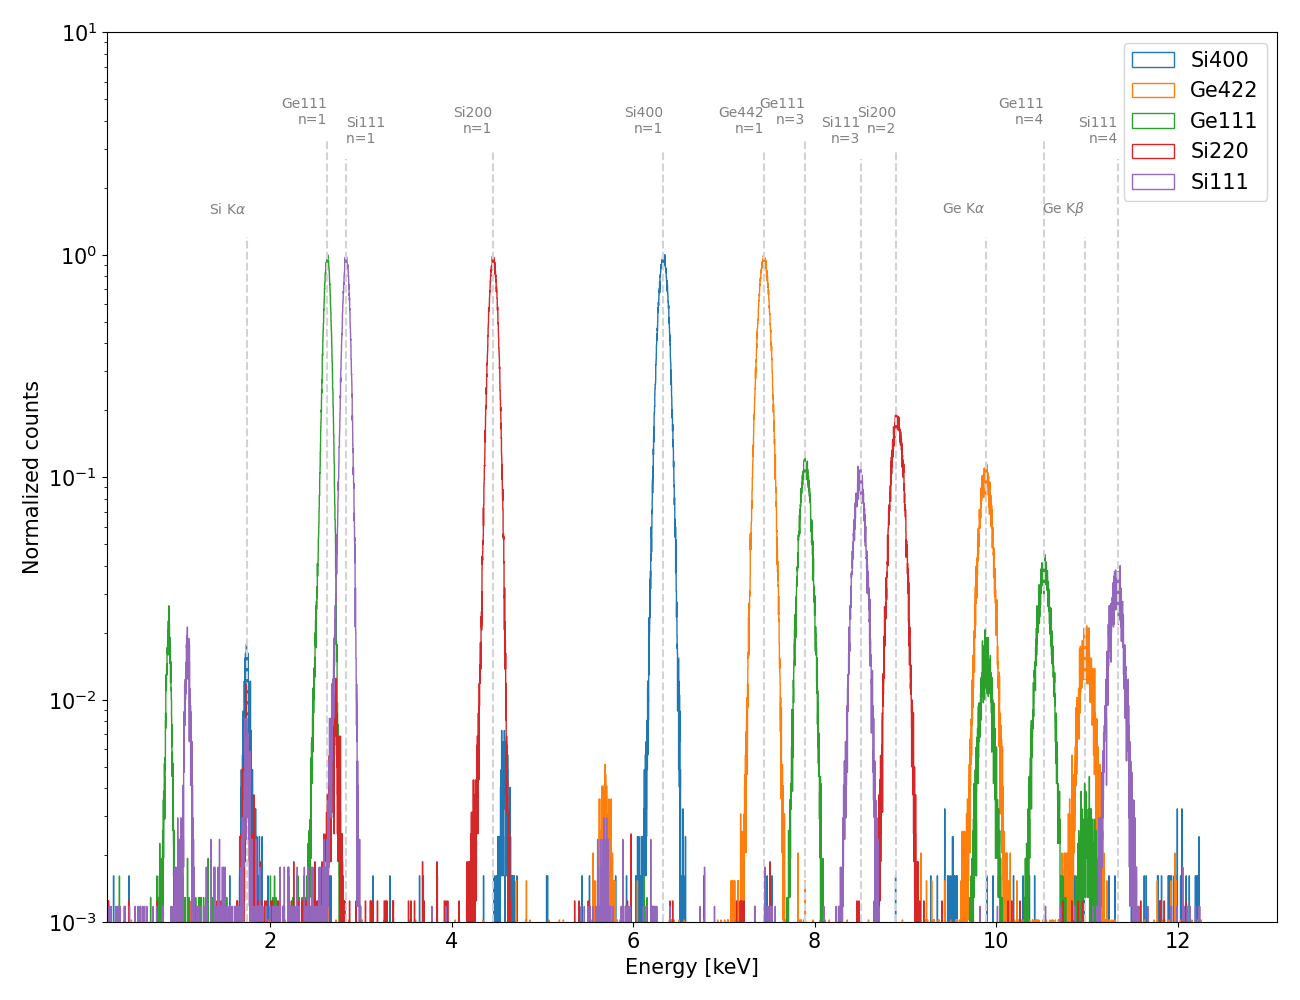
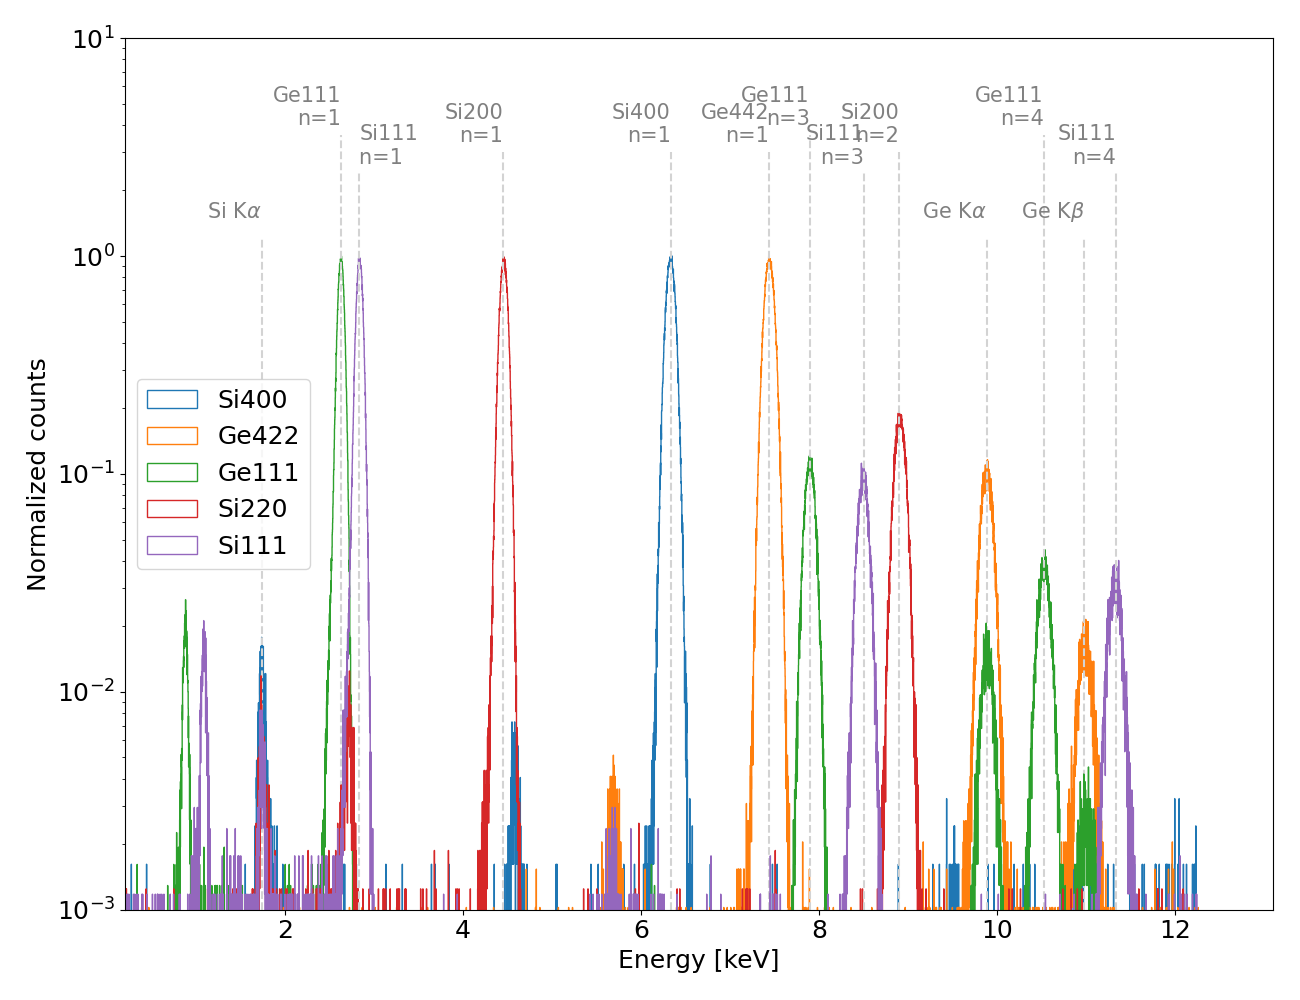
update

diff --git a/ASI_camera/analysis_simo/read_clusters_v2.py b/ASI_camera/analysis_simo/read_clusters_v2.py
@@ -20,8 +20,8 @@ calP1=0.003213272145961988
 XBINS=2822
 YBINS=4144
 NBINS=16384  # n.canali ADC (2^14)
-minfit=0.2
-maxfit=2.0
+minfit=0.3
+maxfit=2
 
 class track():
    def __init__(self, x,y,w):
@@ -72,6 +72,11 @@ def fit_landauHistohram(counts,binsE,xmin=-0.5,xmax=2.5):
  
    initial_pars=[max_x,0.4,max_val]
    lims_low=[max_x-0.1,0.2,max_val-20]
+   if max_x-0.1<0.45:
+      lims_low[0]=0.45
+   if initial_pars[0]<0.45:
+       initial_pars[0]=0.45
+      
    lims_up=[max_x+0.1,0.6,max_val+20]  
    coeff,pcov= fh.fit_Landau_histogram(counts,binsE,xmin=xmin,xmax=xmax,  initial_pars= initial_pars, parsBoundsLow=lims_low, parsBoundsUp=lims_up  )
    print ("coeff=",coeff)
@@ -126,8 +131,8 @@ def analyze_tracks(tracks_list,n_energyBins=1000, trackLen=7, min_corr=0.8, n_pi
    countsE_all, binsE = np.histogram(x, bins =n_energyBins, range = (0,100))
    countsE, binsE = np.histogram(x, bins =n_energyBins, range = (0,100))   # istogramma per ogni pixel
 
-   countsETrack_all, binsE = np.histogram(x, bins =n_energyBins, range = (0,100))
-   countsETrack, binsE = np.histogram(x, bins =n_energyBins, range = (0,100))   # istogramma E totale traccia (integrando i pixel)
+   countsETrack_all, binsEtrack = np.histogram(x, bins =100, range = (0,100))
+   countsETrack, binsEtrack= np.histogram(x, bins =100, range = (0,100))   # istogramma E totale traccia (integrando i pixel)
 
    r_all=[]
    size_all=[]
@@ -147,7 +152,7 @@ def analyze_tracks(tracks_list,n_energyBins=1000, trackLen=7, min_corr=0.8, n_pi
       #print("mytrack.get=",mytrack.w[0])
       
       if mytrack.getSize()==trackLen and abs(mytrack.corr)>min_corr:  # seleziono size e cut su correlezione
-           countsETrack, binsE = np.histogram(mytrack.getTotE(), bins =n_energyBins, range = (0,100))
+           countsETrack, binsEtrack = np.histogram(mytrack.getTotE(), bins =100, range = (0,100))
            countsETrack_all=countsETrack_all+countsETrack                                            # istogramma E totale
         
           #aggiungo l'energia all'n-esimo pixel della traccia
@@ -159,49 +164,69 @@ def analyze_tracks(tracks_list,n_energyBins=1000, trackLen=7, min_corr=0.8, n_pi
                countsE, binsE = np.histogram(mytrack.w[-(n_pix+1)], bins =n_energyBins, range = (0,100))                 
                countsE_all=countsE_all+countsE
 
-   return  countsE_all,  countsETrack_all, binsE   
+   return  countsE_all,  countsETrack_all, binsE, binsEtrack   
 
 
 
-def analize_allPix(track_list,SEL_SIZE):
+def analize_allPix(track_list,SEL_SIZE,MIN_CORR=0.85):
    
    xpix=[]
    MPV=[]
+   MPVerr=[]
    countsETrack=None
    binsE=None
    # loop su n_pix (ie n-esima posizione lungo la traccia, una volta fissata la lunghezza)
    for n_pix in range(0,SEL_SIZE):
    
-      countsE_all,  countsETrack_all, binsE =  analyze_tracks(tracks_list, n_energyBins=600,  trackLen=SEL_SIZE, min_corr=0.85, n_pix=n_pix)
+      countsE_all,  countsETrack_all, binsE, binsEtrack=  analyze_tracks(tracks_list, n_energyBins=2400,  trackLen=SEL_SIZE, min_corr=MIN_CORR, n_pix=n_pix)
       print("nPix=",n_pix)
-      #plot E histogram                                  
-      plt.figure(n_pix)
-      plt.hist(binsE[:-1], bins =binsE, weights =countsE_all  , histtype = 'step',label='Etracks_'+str(n_pix))
-      plt.title('Epixel n.  '+str(n_pix))
+      
       #coeff0,pcov0=  fit_landauHistohram(countsE_all,binsE)
       coeff,pcov,chi2,chi2red=  fh.fit_landauHHisto_cmosMip(countsE_all,binsE,xmin=minfit,xmax=maxfit)
-     
+
+      #plot E histogram                                  
+      plt.figure(n_pix,(13,10))
+      figPixels, (axPix) = plt.subplots(1, figsize=(12,8))
+      axPix.hist(binsE[:-1], bins =binsE, weights =countsE_all  , histtype = 'step',label='Etracks_'+str(n_pix))
+      axPix.set_title('Epixel n.  '+str(n_pix))
       x=np.arange(minfit,maxfit,0.05)
-      #plt.plot(x, pylandau.landau(x, *coeff0), "-b")
-      plt.plot(x, fh.myLandau(x, *coeff), "-r",label='landau')
-      #plt.xlim(-1,5)
-      plt.show()
-      xpix.append(n_pix)
+      axPix.plot(x, fh.myLandau(x, *coeff), "-r",label='landau')
+      axPix.set_xlim(-0.2,2)
+      #plt.show()
+      xpix.append(n_pix+1)
       MPV.append(coeff[0])
+      MPVerr.append(pcov[0][0]**0.5)
 
    #end loop pixels
    # plot tot track energy
-   #plt.figure(60)
-   #plt.title('track totalE')
-   #plt.ylabel("abs(cluster lienar correlation coef.)")
-   #plt.hist(binsE[:-1], bins =binsE, weights=countsETrack_all, histtype = 'step')
-   # fit total energy
-   coeff,pcov=  fit_landauHistohram(countsETrack_all,binsE,xmin=1,xmax=20)    
+   print("!!!!!!!!!! FIT total track Energy =====================  ")
+   figEtrack, (axEt) = plt.subplots(1, figsize=(12,8))
+   axEt.set_title('track totalE+ SIZE='+str(SEL_SIZE))
+   axEt.set_xlabel("track total E [keV]")
+   axEt.hist(binsEtrack[:-1], bins =binsEtrack, weights=countsETrack_all, histtype = 'step')
+
+  
+
+   initial_pars=[ 9,    1.8,  600]
+   lims_low=[5,1,500]
+   lims_up=[15,4,1000]
+  
+   
+   coeff,pcov,chi2,chi2red= fh.fit_Landau_histogram2(countsETrack_all,binsEtrack,xmin=1,xmax=20,  initial_pars= initial_pars, parsBoundsLow=lims_low, parsBoundsUp=lims_up  )
+
+   
+   print("binE=",binsEtrack)
+   print("counts=",countsETrack_all)
+   al.save_histo('trackE', countsETrack_all,binsEtrack)
    x=np.arange(1,20,0.05)
-   #plt.plot(x, pylandau.landau(x, *coeff), "-")  
+   axEt.plot(x, fh.myLandau(x, coeff[0],coeff[1],coeff[2]))
+
+   
    mpv_track=coeff[0] 
 
-   return xpix,MPV, mpv_track
+   
+   
+   return xpix,MPV,MPVerr, mpv_track
    
 
 
@@ -225,22 +250,24 @@ size_all=0
 #apply Ecut and compute r_corr
 r_all ,totE, size_all  = cut_allTracks(tracks_list,Ecut=0.)
 
-fig1, (ax1) = plt.subplots(1, figsize=(12,8))
+fig1, (axFinal) = plt.subplots(1, figsize=(12,8))
 
 #ax1.ylabel("MPV")
 #ax1.xlabel("n pix")
 
 mpv_90=0.351
+MIN_CORR=0.5
 
-for SEL_SIZE in range(10,11):
+for SEL_SIZE in [10]:
    print("SEL_SIZE=",SEL_SIZE)
-   xpix,MPV,mpv_track = analize_allPix(tracks_list,SEL_SIZE)
+   xpix,MPV,MPVerr,mpv_track = analize_allPix(tracks_list,SEL_SIZE, MIN_CORR=MIN_CORR)
    alpha=np.arcsin(mpv_90/mpv_track)
    print("ALPHA=",alpha, " (",np.degrees(alpha),"deg)" )
    depth=np.array(xpix)*4.6*np.tan(alpha)
-   ax1.plot(depth,MPV,'o',label="size="+str(SEL_SIZE))
 
-plt.legend()
+   axFinal.errorbar(depth,MPV,yerr=MPVerr,fmt='o',label="size="+str(SEL_SIZE))
+
+axFinal.legend()
 
 
    
@@ -265,30 +292,7 @@ plt.plot(totE,r_all,"p", alpha=0.5)
 plt.xlabel("cluster E [keV]")
 plt.ylabel("abs(cluster lienar correlation coef.)")
 
-# plot tot track energy
-#plt.figure(60)
-#plt.title('track totalE')
-#plt.ylabel("abs(cluster lienar correlation coef.)")
-#plt.hist(binsE[:-1], bins =binsE, weights=countsETrack_all, histtype = 'step')
-# fit total energy
-#coeff,pcov=  fit_landauHistohram(countsETrack_all,binsE,xmin=1,xmax=20)    
-#x=np.arange(1,20,0.05)
-#plt.plot(x, pylandau.landau(x, *coeff), "-")
 
-
-#pv_track=coeff[0]
-#pv_90=0.6
-#alpha=np.arcsin(mpv_90/mpv_track)
-#print("ALPHA=",alpha, " (",np.degrees(alpha),"deg)" )
-
-# plot MPV vs n_pix
-#plt.figure(70)
-#plt.ylabel("MPV")
-#plt.xlabel("n pix")
-#depth=np.array(xpix)*4.6*np.tan(alpha)
-#plt.plot(depth,MPV,'ro')
-#plt.legend()
-#plt.title('track totalE')
 
 
 

diff --git a/users/simo/plot_mxrXtals/plot_allSpectraMXR.py b/users/simo/plot_mxrXtals/plot_allSpectraMXR.py
@@ -13,7 +13,7 @@ import fit_histogram as fitSimo
 from  histogramSimo import histogramSimo
 import matplotlib as mpl
 
-mpl.rcParams['font.size']=15  #!!!!!!!!!!!!!!!!!!!!!!!!!!
+mpl.rcParams['font.size']=18  #!!!!!!!!!!!!!!!!!!!!!!!!!!
 
    
 
@@ -40,7 +40,7 @@ def plot_all(base_path,input_files,legend,norm_limits,x_lines,labels,labels_scal
                 hor_al='left'
                 print("LEFT!")
             plt.vlines(x=x_lines[i][j]/1000., ymin=0.001,ymax=labels_scale[i][j]*3,color='lightgray', linestyle='--')
-            ax.text(x_lines[i][j]/1000.,labels_scale[i][j]*4 ,labels[i][j], horizontalalignment=hor_al, verticalalignment='center', size=10, color='gray')
+            ax.text(x_lines[i][j]/1000.,labels_scale[i][j]*4 ,labels[i][j], horizontalalignment=hor_al, verticalalignment='center', size=15, color='gray')
         
         
         
@@ -66,7 +66,7 @@ if __name__ == "__main__":
     norm_limtis=[[6250,6425],[7350,7525],[2550, 2675],[4400, 4550],[2780,2880]]
     x_lines=[[6332,1740],[7443,9886,10982],[2631,2631*3,2631*4],[4450,4450*2],[2835,2835*3,2835*4]]
     labels=[["Si400\nn=1",r'Si K$\alpha$'],['Ge442\nn=1',r'Ge K$\alpha$',r'Ge K$\beta$'],['Ge111\nn=1','Ge111\nn=3','Ge111\nn=4'],['Si200\nn=1','Si200\nn=2'],['Si111\nn=1 ','Si111\nn=3','Si111\nn=4']]
-    labels_scale=[[1,0.4],[1,0.4,0.4],[1.1,1.1,1.1],[1,1],[0.9,0.9,0.9]]
+    labels_scale=[[1,0.4],[1,0.4,0.4],[1.2,1.2,1.2],[1,1],[0.8,0.8,0.8]]
    
     plot_all(BASE_PATH,input_files,legend,norm_limtis,x_lines,labels,labels_scale)
     

diff --git a/ASI_camera/analysis_simo/read_eventListsHotCut.py b/ASI_camera/analysis_simo/read_eventListsHotCut.py
@@ -45,8 +45,8 @@ parser.add_argument('-yprojName','--yprojName',type=str ,  help="y-projection fi
 parser.add_argument('-suffix','--suffix',type=str ,  help="suffix in file names", required=False,default='')
 
 
-FIND_HOTPIXELS=False
-CUT_HOT_PIXELS=False
+FIND_HOTPIXELS=True
+CUT_HOT_PIXELS=True
 PLOT_MAP=True
 
 args = parser.parse_args()
@@ -103,8 +103,8 @@ print("len y_all ",len(y_all))
 
 
 if FIND_HOTPIXELS==True:
-    hotPix=hotPixels(x_all=x_all,y_all=y_all,w_all=w_all,size_all=size_all,rebin=20)
-    hotPix.find_HotPixels(n_sigma=3,low_threshold=50, min_counts=10) # low_treshold in ADC, 
+    hotPix=hotPixels(x_all=x_all,y_all=y_all,w_all=w_all,size_all=size_all,rebin=5)
+    hotPix.find_HotPixels(n_sigma=3,low_threshold=10, min_counts=10) # low_treshold in ADC, 
     hotPix.save_cuts(DIR+'/cuts.npz')
 if CUT_HOT_PIXELS==True:
     hotPix=hotPixels(x_all=x_all,y_all=y_all,w_all=w_all,size_all=size_all)
@@ -121,7 +121,7 @@ fig2=plt.figure(figsize=(10,10))
 ax1=plt.subplot(221)
 
 #plot
-myCut=np.where(w_all>100)
+myCut=np.where(w_all>50)
 #myCut=np.where( ((w_all)>50)&(x_all>5)&(x_all<2808))
 #myCut=np.where( ((size_all)>1))
 #myCut=np.where( (w_all>40)&( (  ((x_all-1300)**2+(y_all-1750)**2)<900**2)  ))

diff --git a/gpd/analisi_standalone/analisi_GPD_v2.py b/gpd/analisi_standalone/analisi_GPD_v2.py
@@ -141,7 +141,7 @@ plt.legend()
 """
 print("fit modulation...")
 
-histo_phi_data, histo_phi_bins, phase, phase_err, mu, mu_err, ax_mod = modulation(phi=phi2,bins=bins_modulation,fit=True, title_label='modulation', color='blue')
+histo_phi_data, histo_phi_bins, phase, phase_err, mu, mu_err, ax_mod = modulation(phi=phi1,bins=bins_modulation,fit=True, title_label='modulation', color='blue')
 
 ###############################################################################################################################
 """
@@ -166,7 +166,7 @@ ax2.set_ylabel('counts')
 plt.grid()
 
 
-mu_stokes, pred_phi, err_mu = get_modulation_factor_stokes(np.array(phi2))
+mu_stokes, pred_phi, err_mu = get_modulation_factor_stokes(np.array(phi1))
 
 print('====================================================================================')
 print('mu from fit = ', float("%.2f" % mu), ' +- ', float("%.2f" % mu_err))

diff --git a/gpd/test_GPD_analysis.py b/gpd/test_GPD_analysis.py
@@ -206,8 +206,9 @@ class GPD_analysis(ixpeDqmTask):
         if kwargs.get('output_folder')!=None:
             plt.savefig(kwargs.get('output_folder')+'dist_ratioLW.png')
         mom_ratio_cut = '%s > %.4f' % (expr, min_mom_ratio)
-        cut_final=cut_logical_and(cut2,mom_ratio_cut)
-
+        #cut_final=cut_logical_and(cut2,mom_ratio_cut)
+        cut_final=cut2
+        
         print ("\ncut_final = ",cut_final,'\n')
        
         x = self.run_list.values('TRK_BARX', cut_final)
